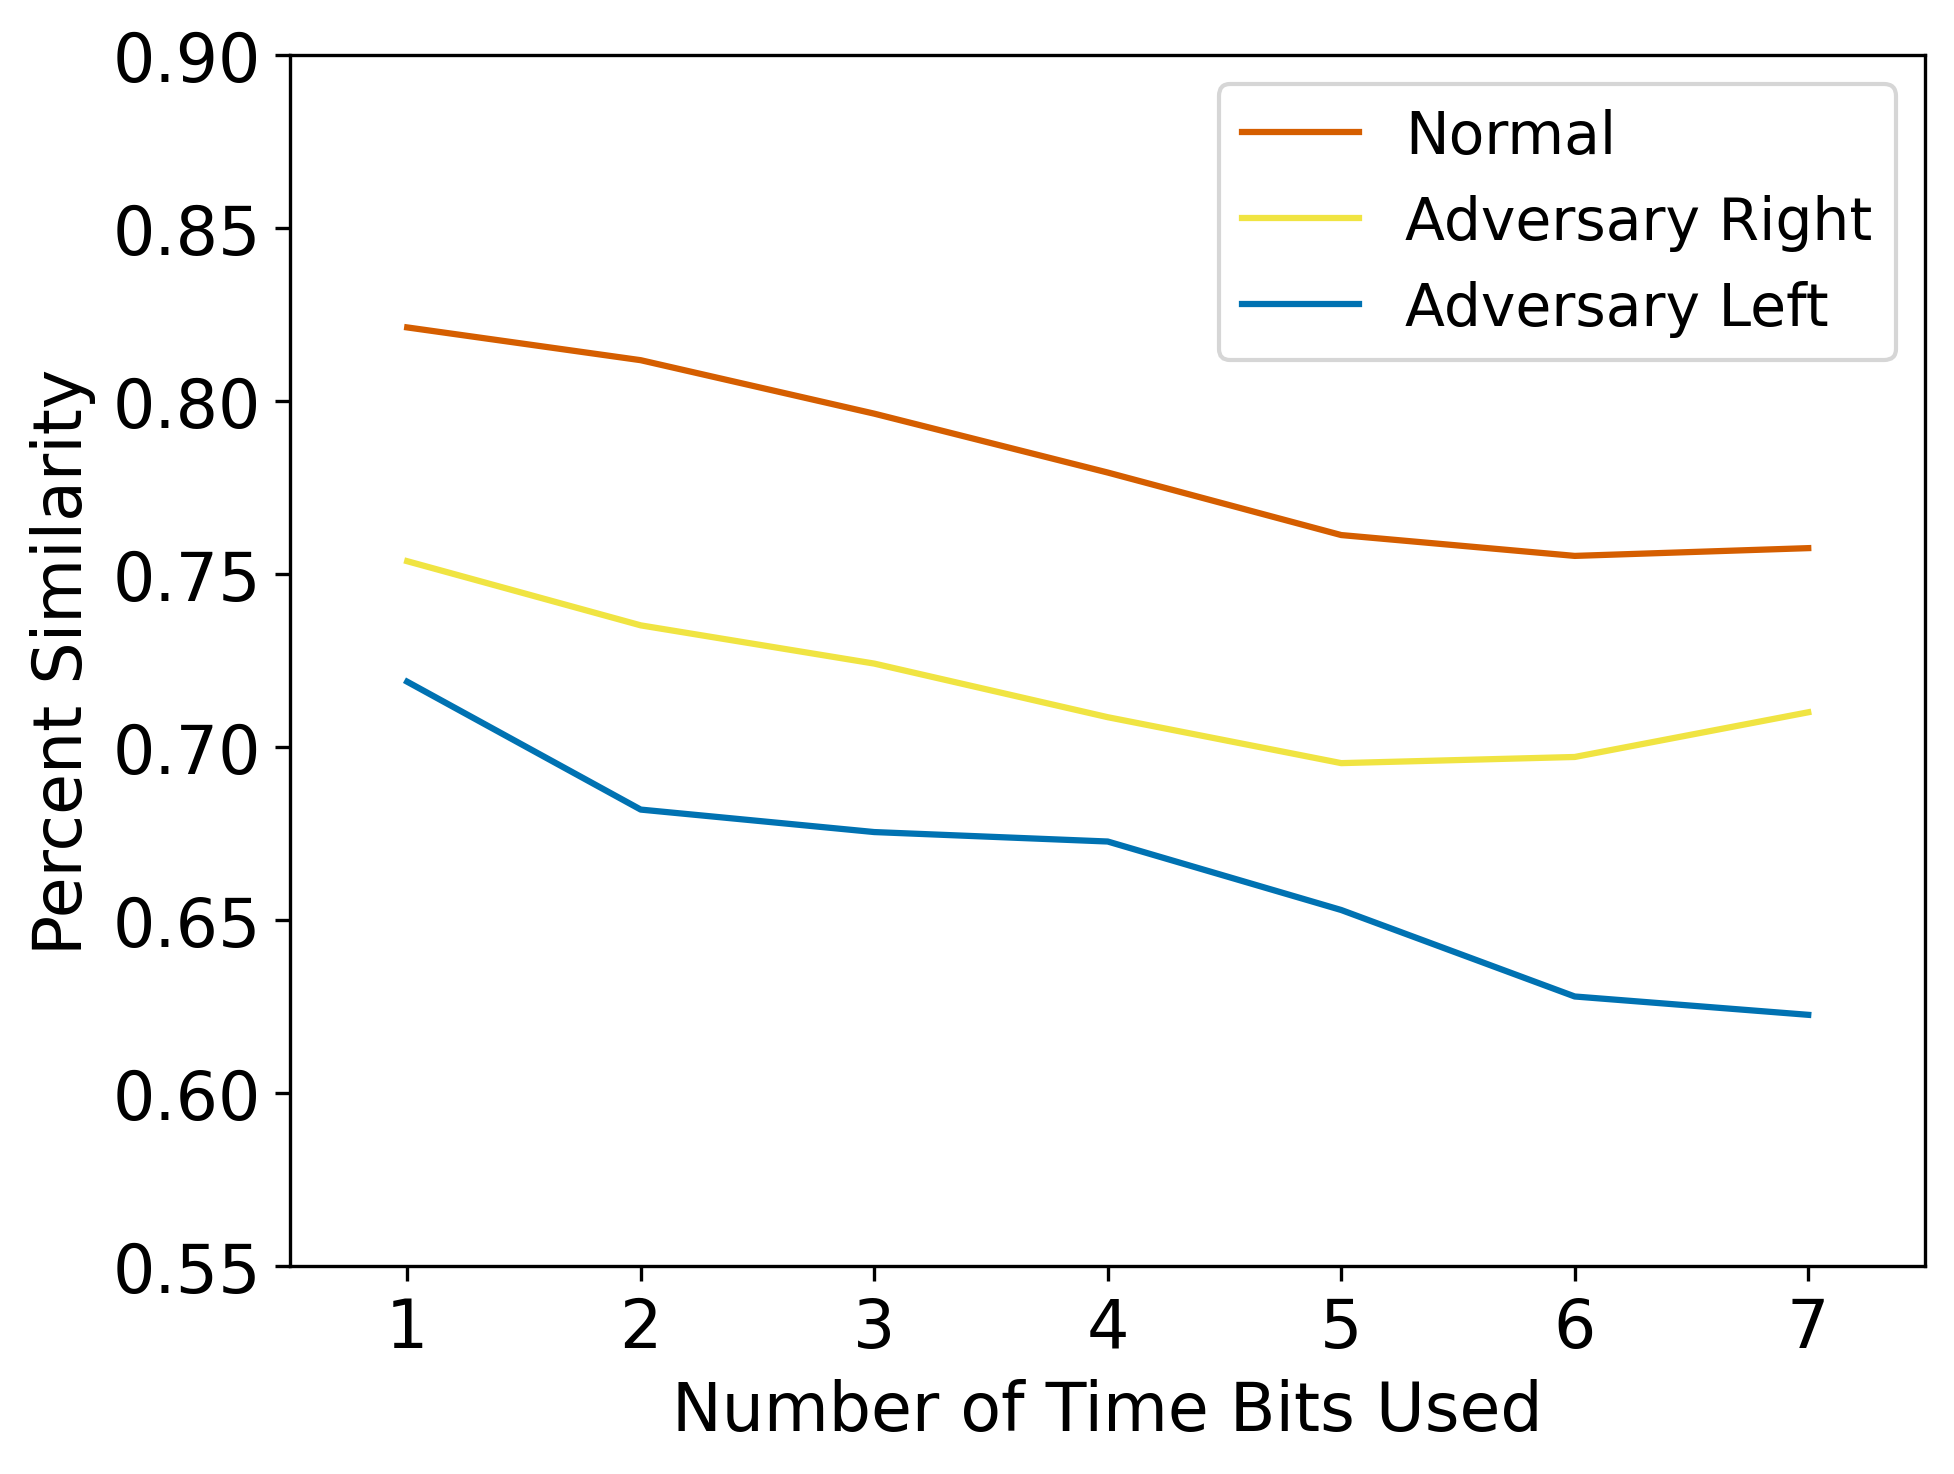
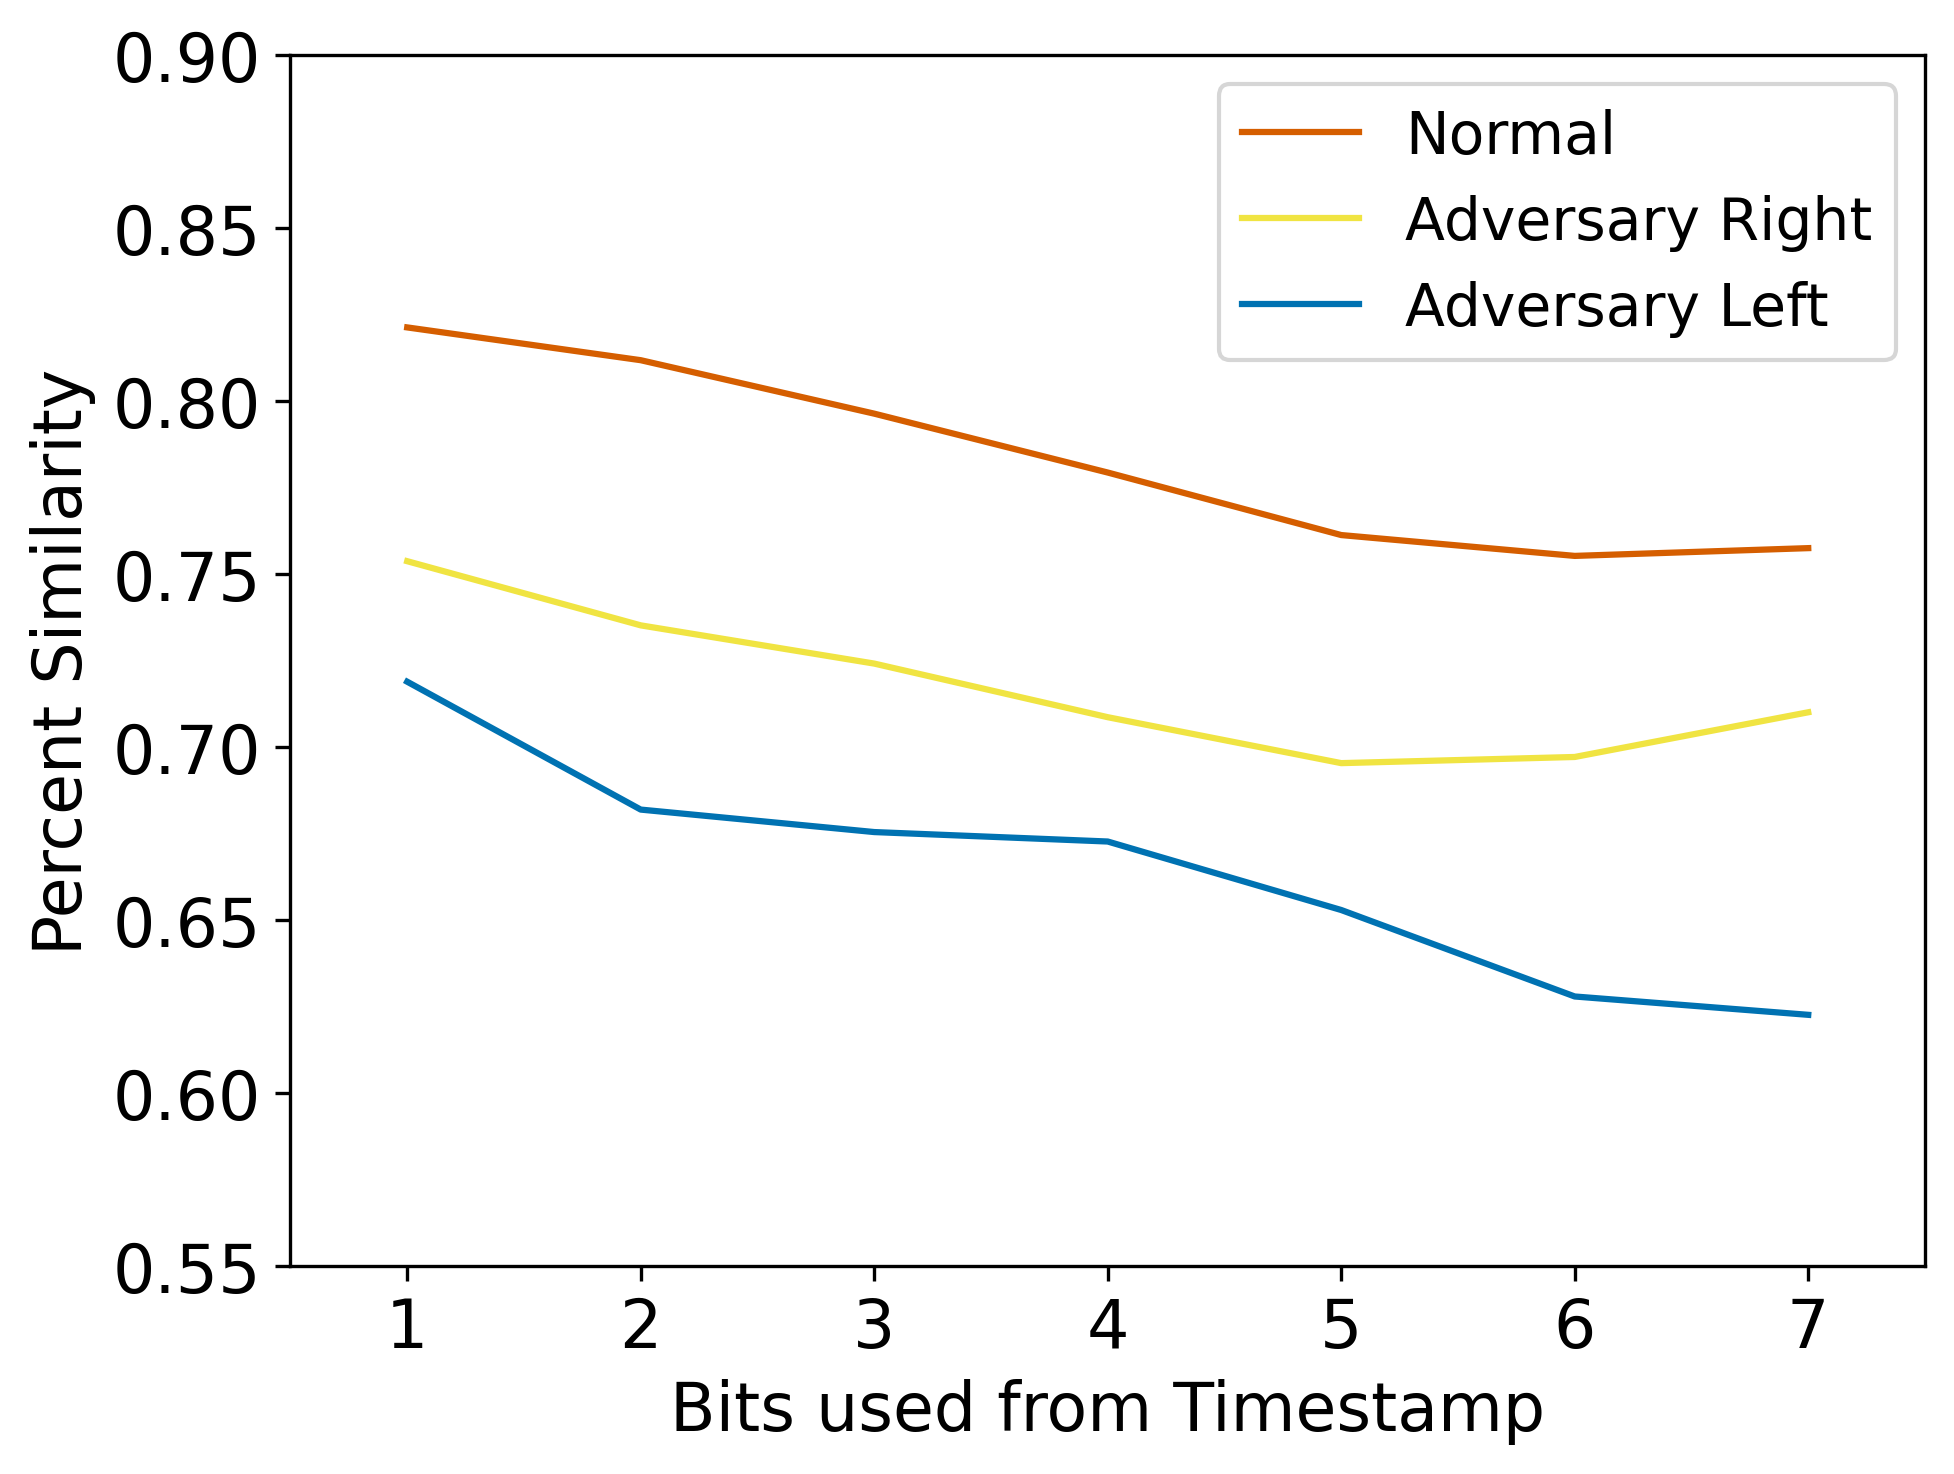
stuff

Changed region(s): [[0.3434, 0.9362, 0.8117, 0.9986]]

diff --git a/encode.py b/encode.py
@@ -56,7 +56,7 @@ def block_encoding(filename, start_time, block_size, num_blocks, time_gap=0, rev
     df = pd.read_csv(filename)
 
     blocks = ['' for _ in range(num_blocks)]
-    """
+    
     for _, entry in df.iterrows():
         t = entry.iloc[0]
         e = entry.iloc[1]
@@ -65,7 +65,7 @@ def block_encoding(filename, start_time, block_size, num_blocks, time_gap=0, rev
 
         if block >= 0 and block < num_blocks and (t - start_time - block*(block_size+time_gap)) <= block_size:
             blocks[block] += (encode_event(t, e, reverse, time_resolution=tres, bits_to_drop=bits_to_drop))
-    """
+    
     if zone_name is not None:
         for index in range(len(blocks)):
             blocks[index] += encode_zone(zone_name, start_time + index*block_size, block_size, zone_multiplier=zone_multiplier)
@@ -299,7 +299,7 @@ def graphs_old():
         """
 
         #show the image
-        ax[i].set_xlabel("Number of Time Bits Used")
+        ax[i].set_xlabel("Bits used from Timestamp")
         ax[i].set_ylabel("Percent Similarity")
         #ax[i].set_title(f"Block Size of {i}")
 
@@ -606,8 +606,8 @@ def graphs_zone_parameters():
     fig1.savefig('figures/Zone-Multiplier-16b.png', dpi = 300, bbox_inches='tight')
 
 if __name__ == "__main__":
-    graphs_zone_parameters()
-    #graphs_old()
+    #graphs_zone_parameters()
+    graphs_old()
     #graph_block_size()
     #graphs_normal_time_resolution_block_size()
     #front_normal = "data-files/data_front_ultrawide.csv"
